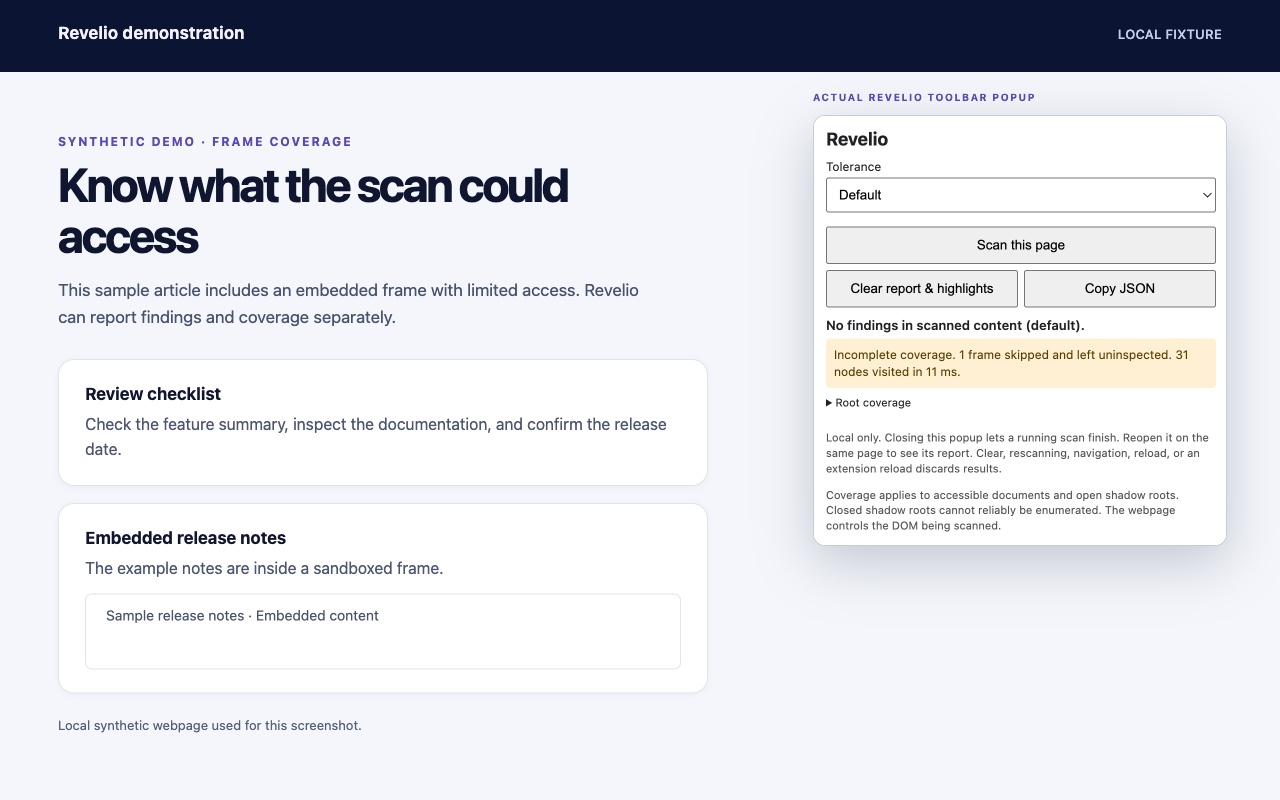
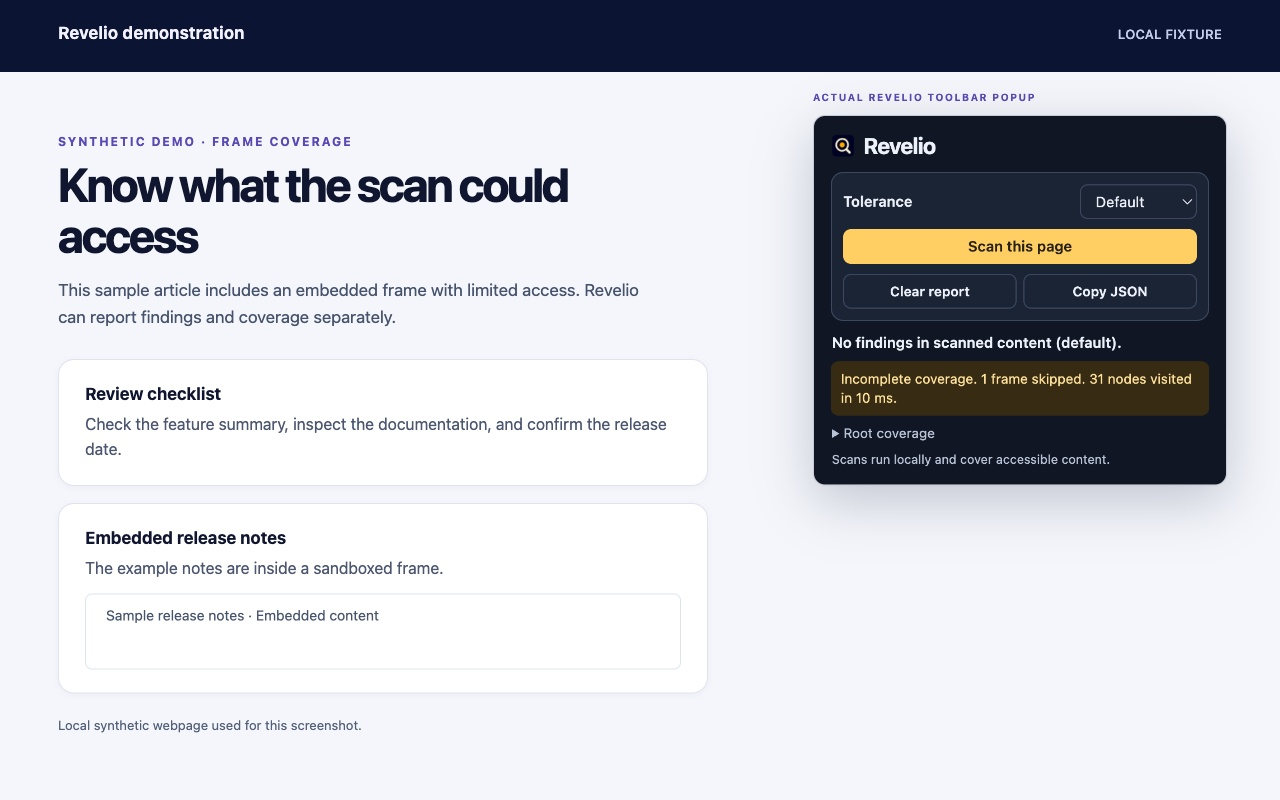
v1.0.3 Simplify the scan popup

Changed region(s): [[0.625, 0.125, 0.9688, 0.7188]]

diff --git a/popup.html b/popup.html
@@ -1,59 +1,154 @@
 <!doctype html>
 <html lang="en">
-  <head>
-    <meta charset="utf-8" />
-    <title>Revelio report</title>
-    <style>
-      body { font-family: system-ui, -apple-system, Segoe UI, Roboto, Arial; margin: 12px; width: 390px; color: #202124; background: white; }
-      h1 { font-size: 18px; margin: 0 0 10px; }
-      button { padding: 9px; cursor: pointer; }
-      button:disabled { cursor: default; opacity: .55; }
-      select { width: 100%; padding: 8px; margin: 4px 0 8px; }
-      label { display: block; font-size: 12px; margin-top: 2px; }
-      .actions { display: flex; gap: 6px; margin: 6px 0; }
-      .actions button { flex: 1; }
-      #status { margin: 10px 0 6px; font-size: 13px; font-weight: 600; }
-      #coverage { font-size: 12px; line-height: 1.4; padding: 8px; background: #f1f3f4; border-radius: 4px; }
-      #coverage.warning { background: #fff0d3; color: #573d00; }
-      .small { font-size: 11px; line-height: 1.4; color: #555; }
-      #results { max-height: 360px; overflow: auto; padding-left: 24px; margin: 10px 0; }
-      #results > li { padding: 8px 0; border-top: 1px solid #ddd; }
-      .finding-title { font-size: 12px; font-weight: 600; overflow-wrap: anywhere; }
-      .snippet { white-space: pre-wrap; overflow-wrap: anywhere; font-size: 12px; margin: 6px 0; }
-      .reasons { font-size: 12px; padding-left: 18px; }
-      .locate { font-size: 11px; margin-top: 6px; padding: 5px 8px; }
-      details { margin: 8px 0; font-size: 11px; }
-      #roots { padding-left: 18px; max-height: 120px; overflow: auto; overflow-wrap: anywhere; }
-      [hidden] { display: none !important; }
-    </style>
-  </head>
-  <body>
+<head>
+  <meta charset="utf-8">
+  <meta name="viewport" content="width=device-width">
+  <title>Revelio</title>
+  <style>
+    :root {
+      color-scheme: light dark;
+      --background: #f7f8fb;
+      --surface: #fff;
+      --text: #17213a;
+      --muted: #526078;
+      --border: #dce1eb;
+      --accent: #ffcf64;
+      --on-accent: #272011;
+      --focus: #775100;
+      --warning-bg: #fff0d0;
+      --warning-text: #694800;
+    }
+
+    @media (prefers-color-scheme: dark) {
+      :root {
+        --background: #101624;
+        --surface: #1b2435;
+        --text: #edf1fa;
+        --muted: #b8c3d7;
+        --border: #3a4860;
+        --focus: #ffd574;
+        --warning-bg: #382b14;
+        --warning-text: #ffe19b;
+      }
+    }
+
+    *, *::before, *::after { box-sizing: border-box; }
+    [hidden] { display: none !important; }
+
+    body {
+      width: 368px;
+      margin: 0;
+      padding: 15px;
+      background: var(--background);
+      color: var(--text);
+      font: 13px/1.45 system-ui, -apple-system, sans-serif;
+    }
+
+    .brand { display: flex; align-items: center; gap: 7px; margin-bottom: 12px; }
+    .brand img { display: block; }
+    h1 { margin: 0; font-size: 20px; line-height: 1.15; letter-spacing: -.025em; }
+
+    .controls, .finding {
+      border: 1px solid var(--border);
+      border-radius: 11px;
+      background: var(--surface);
+    }
+    .controls { display: grid; gap: 9px; padding: 10px; }
+    .tolerance { display: flex; align-items: center; justify-content: space-between; gap: 10px; }
+    label { font-weight: 600; }
+    button, select {
+      min-height: 31px;
+      padding: 4px 9px;
+      border: 1px solid var(--border);
+      border-radius: 7px;
+      background: var(--surface);
+      color: var(--text);
+      font: inherit;
+    }
+    button { cursor: pointer; font-weight: 600; }
+    button:disabled { cursor: default; opacity: .55; }
+    :is(button, select, summary):focus-visible {
+      outline: 2px solid var(--focus);
+      outline-offset: 2px;
+    }
+    .actions { display: flex; gap: 6px; }
+    .actions > button { flex: 1; }
+    #scan { background: var(--accent); border-color: transparent; color: var(--on-accent); }
+    #report-actions button { font-size: 12px; }
+    #status { margin: 10px 1px 0; font-weight: 600; overflow-wrap: anywhere; }
+
+    #coverage {
+      margin-top: 7px;
+      padding: 7px 9px;
+      border-radius: 7px;
+      background: var(--surface);
+      color: var(--muted);
+      font-size: 12px;
+    }
+    #coverage.warning { background: var(--warning-bg); color: var(--warning-text); }
+    details { color: var(--muted); font-size: 12px; }
+    summary { cursor: pointer; }
+    #root-details { margin: 7px 1px 0; }
+    #roots { max-height: 100px; margin: 4px 0 0; padding-inline-start: 20px; overflow: auto; overflow-wrap: anywhere; }
+
+    #results {
+      display: grid;
+      gap: 6px;
+      max-height: 295px;
+      overflow: auto;
+      margin: 8px 0 0;
+      padding: 2px;
+      list-style: none;
+    }
+    .finding { min-width: 0; padding: 9px; overflow-wrap: anywhere; }
+    .finding-title { color: var(--muted); font-size: 11px; font-weight: 650; }
+    .snippet {
+      margin: 3px 0 6px;
+      white-space: pre-wrap;
+      overflow-wrap: anywhere;
+      font: inherit;
+    }
+    .finding-footer { display: flex; align-items: flex-start; justify-content: space-between; gap: 8px; }
+    .finding-details { flex: 1; min-width: 0; padding-top: 4px; }
+    .finding-details p { margin: 4px 0 0; }
+    .reasons { margin: 4px 0 0; padding-inline-start: 16px; }
+    .locate { flex-shrink: 0; min-height: 27px; padding: 3px 7px; font-size: 11px; }
+    #coverage-note { margin: 7px 1px 0; color: var(--muted); font-size: 11px; }
+  </style>
+</head>
+<body>
+  <header class="brand">
+    <img src="icon32.png" width="22" height="22" alt="">
     <h1>Revelio</h1>
-    <label for="tolerance">Tolerance</label>
-    <select id="tolerance">
-      <option value="everything">Everything</option>
-      <option value="sweep">Sweep</option>
-      <option value="default" selected>Default</option>
-      <option value="precise">Precise</option>
-    </select>
+  </header>
+  <div class="controls">
+    <div class="tolerance">
+      <label for="tolerance">Tolerance</label>
+      <select id="tolerance">
+        <option value="everything">Everything</option>
+        <option value="sweep">Sweep</option>
+        <option value="default" selected>Default</option>
+        <option value="precise">Precise</option>
+      </select>
+    </div>
     <div class="actions">
       <button id="scan" type="button">Scan this page</button>
       <button id="cancel" type="button" hidden>Cancel scan</button>
     </div>
-    <div class="actions">
-      <button id="clear" type="button" disabled>Clear report &amp; highlights</button>
+    <div id="report-actions" class="actions" hidden>
+      <button id="clear" type="button" disabled>Clear report</button>
       <button id="copy" type="button" disabled>Copy JSON</button>
     </div>
-    <div id="status" role="status" aria-live="polite">Loading current report…</div>
-    <div id="coverage" hidden></div>
-    <details id="root-details" hidden>
-      <summary>Root coverage</summary>
-      <ul id="roots"></ul>
-    </details>
-    <ol id="results" aria-label="Scan findings"></ol>
-    <p class="small">Local only. Closing this popup lets a running scan finish. Reopen it on the same page to see its report. Clear, rescanning, navigation, reload, or an extension reload discards results.</p>
-    <p class="small">Coverage applies to accessible documents and open shadow roots. Closed shadow roots cannot reliably be enumerated. The webpage controls the DOM being scanned.</p>
-    <script src="protocol.js"></script>
-    <script src="popup.js"></script>
-  </body>
+  </div>
+  <div id="status" role="status">Loading…</div>
+  <div id="coverage" hidden></div>
+  <details id="root-details" hidden>
+    <summary>Root coverage</summary>
+    <ul id="roots"></ul>
+  </details>
+  <ol id="results" aria-label="Scan findings" role="list" hidden></ol>
+  <p id="coverage-note" hidden>Scans run locally and cover accessible content.</p>
+  <script src="protocol.js"></script>
+  <script src="popup.js"></script>
+</body>
 </html>

diff --git a/popup.js b/popup.js
@@ -3,6 +3,7 @@
 
   const ui = Object.fromEntries([
     'scan', 'cancel', 'clear', 'copy', 'tolerance', 'status', 'coverage', 'results', 'roots', 'root-details',
+    'report-actions', 'coverage-note',
   ].map(id => [id, document.getElementById(id)]));
   let target = null;
   let current = null;
@@ -19,8 +20,11 @@
     ui.scan.disabled = busy;
     ui.cancel.hidden = current?.report.status !== 'running';
     ui.cancel.disabled = busy;
-    ui.clear.disabled = busy || !current || current.report.status === 'idle';
-    ui.copy.disabled = busy || !current || current.report.status === 'idle';
+    const hasReport = Boolean(current && current.report.status !== 'idle');
+    ui['report-actions'].hidden = !hasReport;
+    ui['coverage-note'].hidden = !hasReport;
+    ui.clear.disabled = busy || !hasReport;
+    ui.copy.disabled = busy || !hasReport;
   }
 
   function stopPolling() {
@@ -35,6 +39,7 @@
     target = null;
     busy = false;
     ui.results.replaceChildren();
+    ui.results.hidden = true;
     ui.roots.replaceChildren();
     ui.coverage.hidden = true;
     ui['root-details'].hidden = true;
@@ -123,7 +128,7 @@
     const coverage = report.coverage;
     const running = report.status === 'running';
     const findingsCount = counted(report.findings.length, 'finding');
-    if (report.status === 'idle') setStatus('Ready. Start a scan of this page.');
+    if (report.status === 'idle') setStatus('Ready to scan.');
     else if (running) setStatus(`Scanning (${report.mode})… ${findingsCount} retained so far.`);
     else if (report.status === 'cancelled') setStatus(`Scan cancelled. ${findingsCount} in the content inspected.`);
     else if (report.status === 'error') setStatus(`Scan failed: ${report.error || 'The page changed or scanning was interrupted.'}`);
@@ -132,34 +137,43 @@
 
     ui.coverage.hidden = report.status === 'idle';
     ui.coverage.classList.toggle('warning', !coverage.complete || coverage.skippedFrames > 0);
-    let description = running ? 'Scan in progress; coverage is partial.' :
-      coverage.complete ? 'All discovered accessible roots were scanned.' : 'Incomplete coverage.';
+    let description = running ? 'Coverage is partial while scanning.' :
+      coverage.complete ? 'Accessible roots scanned.' : 'Incomplete coverage.';
     if (coverage.stopReason) description += ` Stop reason: ${coverage.stopReason}.`;
-    if (coverage.skippedFrames) description += ` ${counted(coverage.skippedFrames, 'frame')} skipped and left uninspected.`;
+    if (coverage.skippedFrames) description += ` ${counted(coverage.skippedFrames, 'frame')} skipped.`;
     description += ` ${counted(coverage.visitedNodes, 'node')} visited in ${Math.round(coverage.elapsedMs)} ms.`;
-    if (coverage.omitted) description += ` ${counted(coverage.omitted, 'additional eligible finding')} omitted from the retained report; this result limit does not stop traversal.`;
+    if (coverage.omitted) description += ` ${counted(coverage.omitted, 'additional eligible finding')} omitted from the report.`;
     ui.coverage.textContent = description;
     ui['root-details'].hidden = coverage.roots.length === 0;
     const rootItems = coverage.roots.map(root => element('li',
       `${root.id} · ${root.source}: ${root.status}${root.detail ? ` — ${root.detail}` : ''}`));
     ui.roots.replaceChildren(...rootItems);
 
-    const findings = report.findings.map(finding => {
-      const item = element('li');
+    const findings = report.findings.map((finding, index) => {
+      const item = element('li', undefined, 'finding');
       item.dataset.findingId = finding.id;
-      item.append(element('div', `${finding.source} · ${finding.rootId} · ${finding.selector} · score ${finding.score}`, 'finding-title'));
+      item.append(element('div', `Finding ${index + 1}`, 'finding-title'));
       item.append(element('pre', finding.snippet, 'snippet'));
+
+      const footer = element('div', undefined, 'finding-footer');
+      const details = element('details', undefined, 'finding-details');
+      details.append(element('summary', 'Evidence'));
+      details.append(element('p', `Score ${finding.score} · ${finding.source}`));
+      details.append(element('p', `${finding.rootId} · ${finding.selector}`));
       const reasons = element('ul', undefined, 'reasons');
       reasons.append(...finding.reasons.map(reason => element('li', reason)));
-      item.append(reasons);
+      details.append(reasons);
+
       const locate = element('button', 'Locate on page', 'locate');
       locate.type = 'button';
       locate.disabled = running;
       locate.addEventListener('click', () => locateFinding(envelope, finding.id));
-      item.append(locate);
+      footer.append(details, locate);
+      item.append(footer);
       return item;
     });
     ui.results.replaceChildren(...findings);
+    ui.results.hidden = findings.length === 0;
     updateActions();
   }
 

diff --git a/README.md b/README.md
@@ -10,9 +10,9 @@ Web reviewers and people checking pages used by AI assistants can scan the activ
 
 Install Revelio from the [Chrome Web Store](https://chromewebstore.google.com/detail/revelio/hdcjpjjfangdnigmhdnnmhndanhejeem), or follow the setup below to try the current source.
 
-![Revelio showing two hidden-text findings and their locations on a local demo page](docs/extension-findings.jpg)
+<a href="docs/extension-findings.jpg"><img src="docs/extension-findings.jpg" width="480" alt="Revelio showing two hidden-text findings and their locations on a local demo page"></a>
 
-[See the incomplete-coverage example](docs/extension-coverage.jpg).
+<a href="docs/extension-coverage.jpg"><img src="docs/extension-coverage.jpg" width="480" alt="Revelio showing an incomplete-coverage warning for a skipped frame on a local demo page"></a>
 
 ## Features
 
@@ -42,7 +42,7 @@ cd Revelio
 
 1. Open `chrome://extensions`, enable **Developer mode**, and select **Load unpacked**. Choose the cloned `Revelio` folder.
 2. Open a regular webpage, click Revelio in the toolbar, and select **Scan this page**.
-3. Review the report and coverage warning. Use **Locate on page**, **Copy JSON**, or **Clear report & highlights** as needed.
+3. Review the findings and any coverage warning. Expand **Evidence** for details or select **Locate on page** to highlight a finding. Use **Copy JSON** to export the report or **Clear report** to remove the report and highlights.
 
 ## Configuration
 
@@ -74,6 +74,6 @@ Findings are heuristics and can include legitimate accessibility text or hidden 
 
 ## Versioning and credits
 
-This source prepares the `v1.0.2` patch. The application version lives in `manifest.json` and is mirrored in `package.json` and `package-lock.json`. Versions follow [Semantic Versioning](https://semver.org/), with `vX.Y.Z` used in release labels. See the [changelog](CHANGELOG.md).
+This source prepares the `v1.0.3` patch. The application version lives in `manifest.json` and is mirrored in `package.json` and `package-lock.json`. Versions follow [Semantic Versioning](https://semver.org/), with `vX.Y.Z` used in release labels. See the [changelog](CHANGELOG.md).
 
 Created by Anton Grachev and distributed under the [MIT license](LICENSE). Use [GitHub Issues](https://github.com/ant0n-grachev/Revelio/issues) to report a bug with a minimal, non-sensitive example.

diff --git a/docs/verification.md b/docs/verification.md
@@ -6,7 +6,7 @@ The November 12, 2026 run used Node.js 22.22.0 and Playwright 1.62.1 with Chromi
 
 | Check | Passed | Failed | Skipped |
 | --- | ---: | ---: | ---: |
-| `npm run check` | 9 packaged files, manifest permissions, syntax, and version agreement | 0 | 0 |
+| `npm run check` | 11 packaged files, manifest permissions, syntax, and version agreement | 0 | 0 |
 | `npm run test:unit` | 39 | 0 | 0 |
 | `npm run test:browser` | 30, including 3 installed-extension checks | 0 | 0 |
 
@@ -14,7 +14,7 @@ The [September 7 baseline](https://github.com/ant0n-grachev/Revelio/commit/ee0f5
 
 ## What the browser tests exercise
 
-- **Installed extension.** Chromium loads the unpacked manifest, triggers the toolbar action for an `activeTab` grant, and exercises the actual popup, injection, and messages. Checks cover literal rendering, highlights, tab isolation, restricted pages, report retention across popup closure, cleanup, and temporary unload/reload. A local page verifies that an empty report can have inaccessible frames, that open and closed shadow roots have different coverage, and that text added after a scan requires a fresh scan.
+- **Installed extension.** Chromium loads the unpacked manifest, triggers the toolbar action for an `activeTab` grant, and exercises the actual popup, injection, and messages. Checks cover literal rendering, expandable evidence, highlights, tab isolation, restricted pages, report retention across popup closure, cleanup, and temporary unload/reload. A local page verifies that an empty report can have inaccessible frames, that open and closed shadow roots have different coverage, and that text added after a scan requires a fresh scan.
 - **Browser fixtures.** Other tests run the scanner in Chromium with a simulated extension transport. They check cooperative traversal, cancellation, work and result limits, CSS and Unicode evidence, root changes, stale scan rejection, and how the same scan modes treat routine hidden UI and visually concealed sample text in different languages. Selected boundary tests reduce limits in a test copy only. The detection fixtures measure behavior on known examples and do not measure real-world detection accuracy.
 
 ## Fixture measurements

diff --git a/CHANGELOG.md b/CHANGELOG.md
@@ -4,7 +4,7 @@ The format follows [Keep a Changelog](https://keepachangelog.com/en/1.1.0/) and 
 
 ## Unreleased
 
-The source prepares `v1.0.2`.
+The source prepares `v1.0.3`.
 
 ### Added
 
@@ -13,8 +13,10 @@ The source prepares `v1.0.2`.
 
 ### Changed
 
+- Simplified the popup with one primary scan action and expandable finding evidence.
 - Simplified the icon and added dedicated toolbar sizes for better visibility.
 - Updated the screenshots with real scans of local demo pages.
+- Moved the privacy policy to the repository and redirected the previous policy URL.
 - Clarified installation, permissions, coverage limits, and verification in the README and linked documentation.
 
 ### Fixed
